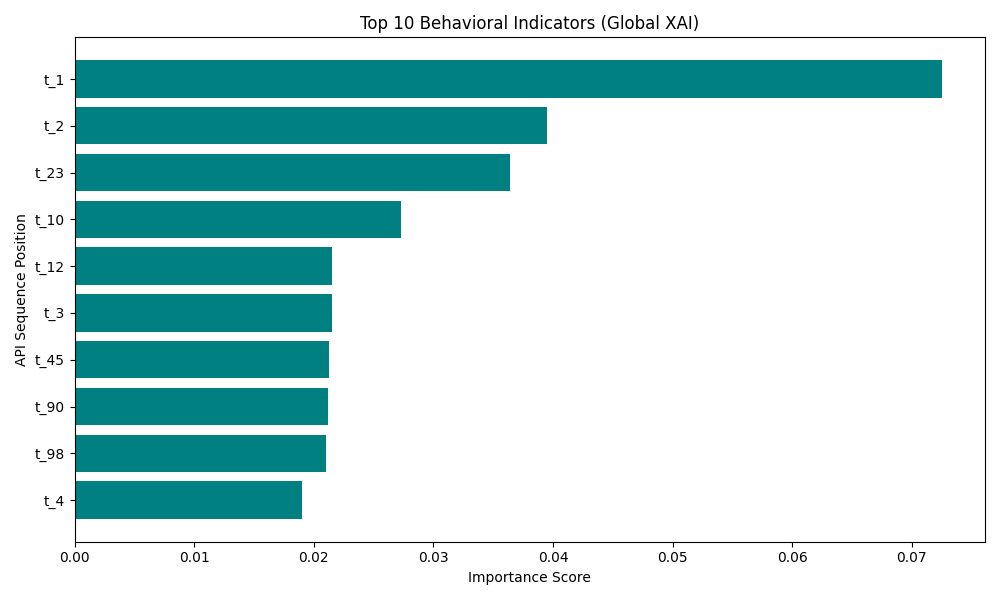
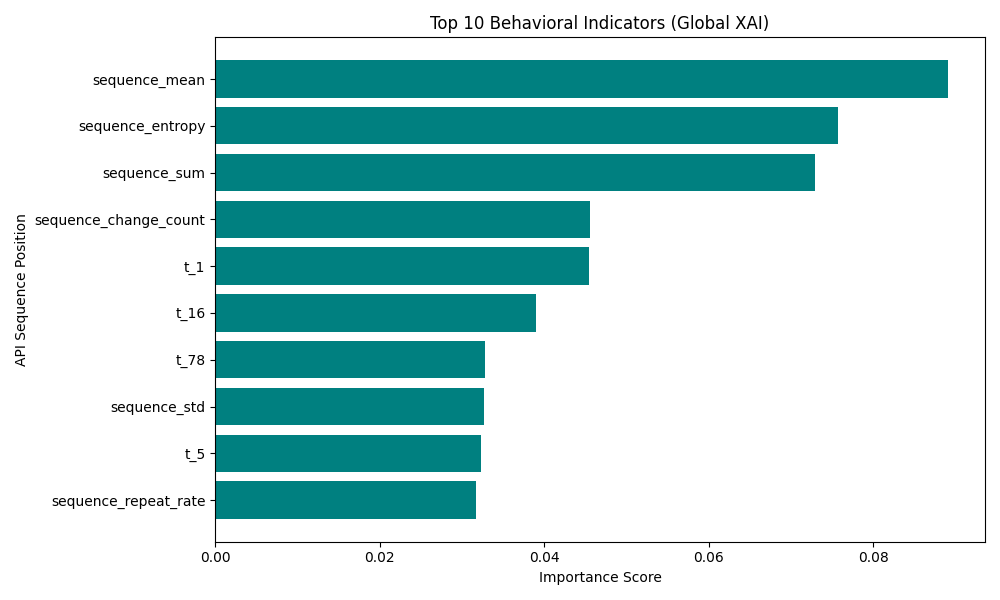
Improved SVM low accuracy

diff --git a/json_parser.py b/json_parser.py
@@ -1,0 +1,63 @@
+import json
+import pandas as pd
+
+RAW_API_LIST = [
+    'NtOpenThread', 'ExitWindowsEx', 'FindResourceW', 'CryptExportKey', 'CreateRemoteThreadEx', 'MessageBoxTimeoutW', 'InternetCrackUrlW', 'StartServiceW', 'GetFileSize', 'GetVolumeNameForVolumeMountPointW', 'GetFileInformationByHandle', 'CryptAcquireContextW', 'RtlDecompressBuffer', 'SetWindowsHookExA', 'RegSetValueExW', 'LookupAccountSidW', 'SetUnhandledExceptionFilter', 'InternetConnectA', 'GetComputerNameW', 'RegEnumValueA', 'NtOpenFile', 'NtSaveKeyEx', 'HttpOpenRequestA', 'recv', 'GetFileSizeEx', 'LoadStringW', 'SetInformationJobObject', 'WSAConnect', 'CryptDecrypt', 'GetTimeZoneInformation', 'InternetOpenW', 'CoInitializeEx', 'CryptGenKey', 'GetAsyncKeyState', 'NtQueryInformationFile', 'GetSystemMetrics', 'NtDeleteValueKey', 'NtOpenKeyEx', 'sendto', 'IsDebuggerPresent', 'RegQueryInfoKeyW', 'NetShareEnum', 'InternetOpenUrlW', 'WSASocketA', 'CopyFileExW', 'connect', 'ShellExecuteExW', 'SearchPathW', 'GetUserNameA', 'InternetOpenUrlA', 'LdrUnloadDll', 'EnumServicesStatusW', 'EnumServicesStatusA', 'WSASend', 'CopyFileW', 'NtDeleteFile', 'CreateActCtxW', 'timeGetTime', 'MessageBoxTimeoutA', 'CreateServiceA', 'FindResourceExW', 'WSAAccept', 'InternetConnectW', 'HttpSendRequestA', 'GetVolumePathNameW', 'RegCloseKey', 'InternetGetConnectedStateExW', 'GetAdaptersInfo', 'shutdown', 'NtQueryMultipleValueKey', 'NtQueryKey', 'GetSystemWindowsDirectoryW', 'GlobalMemoryStatusEx', 'GetFileAttributesExW', 'OpenServiceW', 'getsockname', 'LoadStringA', 'UnhookWindowsHookEx', 'NtCreateUserProcess', 'Process32NextW', 'CreateThread', 'LoadResource', 'GetSystemTimeAsFileTime', 'SetStdHandle', 'CoCreateInstanceEx', 'GetSystemDirectoryA', 'NtCreateMutant', 'RegCreateKeyExW', 'IWbemServices_ExecQuery', 'NtDuplicateObject', 'Thread32First', 'OpenSCManagerW', 'CreateServiceW', 'GetFileType', 'MoveFileWithProgressW', 'NtDeviceIoControlFile', 'GetFileInformationByHandleEx', 'CopyFileA', 'NtLoadKey', 'GetNativeSystemInfo', 'NtOpenProcess', 'CryptUnprotectMemory', 'InternetWriteFile', 'ReadProcessMemory', 'gethostbyname', 'WSASendTo', 'NtOpenSection', 'listen', 'WSAStartup', 'socket', 'OleInitialize', 'FindResourceA', 'RegOpenKeyExA', 'RegEnumKeyExA', 'NtQueryDirectoryFile', 'CertOpenSystemStoreW', 'ControlService', 'LdrGetProcedureAddress', 'GlobalMemoryStatus', 'NtSetInformationFile', 'OutputDebugStringA', 'GetAdaptersAddresses', 'CoInitializeSecurity', 'RegQueryValueExA', 'NtQueryFullAttributesFile', 'DeviceIoControl', '__anomaly__', 'DeleteFileW', 'GetShortPathNameW', 'NtGetContextThread', 'GetKeyboardState', 'RemoveDirectoryA', 'InternetSetStatusCallback', 'NtResumeThread', 'SetFileInformationByHandle', 'NtCreateSection', 'NtQueueApcThread', 'accept', 'DecryptMessage', 'GetUserNameExW', 'SizeofResource', 'RegQueryValueExW', 'SetWindowsHookExW', 'HttpOpenRequestW', 'CreateDirectoryW', 'InternetOpenA', 'GetFileVersionInfoExW', 'FindWindowA', 'closesocket', 'RtlAddVectoredExceptionHandler', 'IWbemServices_ExecMethod', 'GetDiskFreeSpaceExW', 'TaskDialog', 'WriteConsoleW', 'CryptEncrypt', 'WSARecvFrom', 'NtOpenMutant', 'CoGetClassObject', 'NtQueryValueKey', 'NtDelayExecution', 'select', 'HttpQueryInfoA', 'GetVolumePathNamesForVolumeNameW', 'RegDeleteValueW', 'InternetCrackUrlA', 'OpenServiceA', 'InternetSetOptionA', 'CreateDirectoryExW', 'bind', 'NtShutdownSystem', 'DeleteUrlCacheEntryA', 'NtMapViewOfSection', 'LdrGetDllHandle', 'NtCreateKey', 'GetKeyState', 'CreateRemoteThread', 'NtEnumerateValueKey', 'SetFileAttributesW', 'NtUnmapViewOfSection', 'RegDeleteValueA', 'CreateJobObjectW', 'send', 'NtDeleteKey', 'SetEndOfFile', 'GetUserNameExA', 'GetComputerNameA', 'URLDownloadToFileW', 'NtFreeVirtualMemory', 'recvfrom', 'NtUnloadDriver', 'NtTerminateThread', 'CryptUnprotectData', 'NtCreateThreadEx', 'DeleteService', 'GetFileAttributesW', 'GetFileVersionInfoSizeExW', 'OpenSCManagerA', 'WriteProcessMemory', 'GetSystemInfo', 'SetFilePointer', 'Module32FirstW', 'ioctlsocket', 'RegEnumKeyW', 'RtlCompressBuffer', 'SendNotifyMessageW', 'GetAddrInfoW', 'CryptProtectData', 'Thread32Next', 'NtAllocateVirtualMemory', 'RegEnumKeyExW', 'RegSetValueExA', 'DrawTextExA', 'CreateToolhelp32Snapshot', 'FindWindowW', 'CoUninitialize', 'NtClose', 'WSARecv', 'CertOpenStore', 'InternetGetConnectedState', 'RtlAddVectoredContinueHandler', 'RegDeleteKeyW', 'SHGetSpecialFolderLocation', 'CreateProcessInternalW', 'NtCreateDirectoryObject', 'EnumWindows', 'DrawTextExW', 'RegEnumValueW', 'SendNotifyMessageA', 'NtProtectVirtualMemory', 'NetUserGetLocalGroups', 'GetUserNameW', 'WSASocketW', 'getaddrinfo', 'AssignProcessToJobObject', 'SetFileTime', 'WriteConsoleA', 'CryptDecodeObjectEx', 'EncryptMessage', 'system', 'NtSetContextThread', 'LdrLoadDll', 'InternetGetConnectedStateExA', 'RtlCreateUserThread', 'GetCursorPos', 'Module32NextW', 'RegCreateKeyExA', 'NtLoadDriver', 'NetUserGetInfo', 'SHGetFolderPathW', 'GetBestInterfaceEx', 'CertControlStore', 'StartServiceA', 'NtWriteFile', 'Process32FirstW', 'NtReadVirtualMemory', 'GetDiskFreeSpaceW', 'GetFileVersionInfoW', 'FindFirstFileExW', 'FindWindowExW', 'GetSystemWindowsDirectoryA', 'RegOpenKeyExW', 'CoCreateInstance', 'NtQuerySystemInformation', 'LookupPrivilegeValueW', 'NtReadFile', 'ReadCabinetState', 'GetForegroundWindow', 'InternetCloseHandle', 'FindWindowExA', 'ObtainUserAgentString', 'CryptCreateHash', 'GetTempPathW', 'CryptProtectMemory', 'NetGetJoinInformation', 'NtOpenKey', 'GetSystemDirectoryW', 'DnsQuery_A', 'RegQueryInfoKeyA', 'NtEnumerateKey', 'RegisterHotKey', 'RemoveDirectoryW', 'FindFirstFileExA', 'CertOpenSystemStoreA', 'NtTerminateProcess', 'NtSetValueKey', 'CryptAcquireContextA', 'SetErrorMode', 'UuidCreate', 'RtlRemoveVectoredExceptionHandler', 'RegDeleteKeyA', 'setsockopt', 'FindResourceExA', 'NtSuspendThread', 'GetFileVersionInfoSizeW', 'NtOpenDirectoryObject', 'InternetQueryOptionA', 'InternetReadFile', 'NtCreateFile', 'NtQueryAttributesFile', 'HttpSendRequestW', 'CryptHashMessage', 'CryptHashData', 'NtWriteVirtualMemory', 'SetFilePointerEx', 'CertCreateCertificateContext', 'DeleteUrlCacheEntryW', '__exception__'
+]
+
+# Create case-insensitive dictionary
+API_MAPPING_DICT = {api.lower(): idx for idx, api in enumerate(sorted(RAW_API_LIST))}
+
+def extract_apis_recursive(data):
+    """Aggressively hunts for API strings inside unknown nested JSON layouts."""
+    found_apis = []
+    
+    if isinstance(data, dict):
+        if "api_name" in data and isinstance(data["api_name"], str):
+            found_apis.append(data["api_name"])
+        elif "name" in data and isinstance(data["name"], str):
+            found_apis.append(data["name"])
+        elif "api" in data and isinstance(data["api"], str):
+            found_apis.append(data["api"])
+            
+        for key, value in data.items():
+            if isinstance(value, (dict, list)):
+                found_apis.extend(extract_apis_recursive(value))
+                
+    elif isinstance(data, list):
+        for item in data:
+            if isinstance(item, (dict, list)):
+                found_apis.extend(extract_apis_recursive(item))
+                
+    return found_apis
+
+def flatten_speakeasy_json(file_path, expected_length=100):
+    with open(file_path, 'r') as f:
+        raw_data = json.load(f)
+
+    # 1. Hunt down all raw API strings using recursion
+    extracted_strings = extract_apis_recursive(raw_data)
+    
+    api_sequence = []
+    for api_name_full in extracted_strings:
+        # Strip prefixes (e.g. KERNEL32.)
+        clean_api = api_name_full.split('.')[-1].lower()
+        
+        # 2. Match exactly, or try appending 'a' (ANSI) or 'w' (Wide)
+        encoded_api = -1
+        if clean_api in API_MAPPING_DICT:
+            encoded_api = API_MAPPING_DICT[clean_api]
+        elif clean_api + 'a' in API_MAPPING_DICT:
+            encoded_api = API_MAPPING_DICT[clean_api + 'a']
+        elif clean_api + 'w' in API_MAPPING_DICT:
+            encoded_api = API_MAPPING_DICT[clean_api + 'w']
+
+        # 3. Only append valid known APIs. Skip unknowns so they don't break the sequence.
+        if encoded_api != -1:
+            api_sequence.append(encoded_api)
+
+    # 4. Enforce strict 100-feature length via truncation or padding with 0
+    api_sequence = api_sequence[:expected_length] + [0] * max(0, expected_length - len(api_sequence))
+
+    columns = [f't_{i}' for i in range(expected_length)]
+    return pd.DataFrame([api_sequence], columns=columns)

diff --git a/build_dataset.py b/build_dataset.py
@@ -1,0 +1,117 @@
+import os
+import sys
+import pandas as pd
+from json_parser import flatten_speakeasy_json
+
+# ── Configuration ──────────────────────────────────────────────────────────────
+
+TARGET_DIRECTORY = r"D:\Random_Downloads\Projects\FYP\archive\windows_emulation_trainset"
+OUTPUT_FILE      = "speakeasy_training_data.csv"
+
+# Folders inside TARGET_DIRECTORY that contain benign (clean) samples.
+# Everything else is treated as malware.
+BENIGN_FOLDERS = {'report_clean', 'report_windows_syswow64'}
+
+# Minimum number of non-zero API calls a sample must have to be kept.
+# Samples below this threshold are almost entirely padding and carry no signal.
+MIN_API_CALLS = 5
+
+# ── Core builder ───────────────────────────────────────────────────────────────
+
+def compile_dataset(root_dir, output_csv, min_api_calls=MIN_API_CALLS):
+    print(f"Scanning: {root_dir}")
+    print(f"Benign folders : {BENIGN_FOLDERS}")
+    print(f"Min API calls  : {min_api_calls}")
+    print("-" * 60)
+
+    all_rows       = []
+    skipped_sparse = 0
+    skipped_error  = 0
+
+    # Collect all JSON paths first so we can show a total count
+    all_files = [
+        (root_path, fname)
+        for root_path, _, files in os.walk(root_dir)
+        for fname in files
+        if fname.endswith('.json')
+    ]
+    total = len(all_files)
+    print(f"Found {total:,} JSON files\n")
+
+    for idx, (root_path, fname) in enumerate(all_files, 1):
+        file_path   = os.path.join(root_path, fname)
+        folder_name = os.path.basename(root_path)
+
+        if idx % 500 == 0 or idx == total:
+            print(f"  Progress: {idx}/{total} | Kept: {len(all_rows)} | "
+                  f"Sparse: {skipped_sparse} | Errors: {skipped_error}",
+                  end='\r')
+
+        try:
+            df_single = flatten_speakeasy_json(file_path)
+
+            # ── Sparse filter ──────────────────────────────────────────────────
+            seq_cols = [c for c in df_single.columns if c.startswith('t_')]
+            nonzero  = int((df_single[seq_cols] != 0).sum(axis=1).iloc[0])
+            if nonzero < min_api_calls:
+                skipped_sparse += 1
+                continue
+
+            # ── Hash ───────────────────────────────────────────────────────────
+            file_hash = fname.replace('.json', '')
+            df_single.insert(0, 'hash', file_hash)
+
+            # ── Label by folder name ───────────────────────────────────────────
+            df_single['malware'] = 0 if folder_name in BENIGN_FOLDERS else 1
+
+            all_rows.append(df_single)
+
+        except Exception as exc:
+            skipped_error += 1
+            # Uncomment to debug parse failures:
+            # print(f"\n  SKIP {file_path}: {exc}")
+
+    print()  # flush the \r progress line
+
+    # ── Assemble ───────────────────────────────────────────────────────────────
+    if not all_rows:
+        print("\nNo valid samples collected. Check your TARGET_DIRECTORY path.")
+        sys.exit(1)
+
+    print(f"\nCombining {len(all_rows):,} samples...")
+    final = pd.concat(all_rows, ignore_index=True)
+    final.fillna(0, inplace=True)
+
+    n_benign  = int((final['malware'] == 0).sum())
+    n_malware = int((final['malware'] == 1).sum())
+
+    # ── Report ─────────────────────────────────────────────────────────────────
+    print("\n" + "=" * 60)
+    print("DATASET REPORT")
+    print("=" * 60)
+    print(f"  Total kept      : {len(final):,}")
+    print(f"  Benign  (0)     : {n_benign:,}")
+    print(f"  Malware (1)     : {n_malware:,}")
+    print(f"  Skipped sparse  : {skipped_sparse:,}")
+    print(f"  Skipped errors  : {skipped_error:,}")
+
+    if n_benign == 0:
+        print("\n  WARNING: Still zero benign samples!")
+        print("  Check that your archive actually contains 'report_clean'")
+        print("  or 'report_windows_syswow64' subfolders with JSON files.")
+    else:
+        ratio = n_malware / n_benign
+        print(f"  Imbalance ratio : {ratio:.0f}:1 (malware:benign)")
+        if ratio > 20:
+            print("  WARNING: High imbalance — SMOTE in main.py will compensate,")
+            print("  but consider collecting more benign samples if accuracy is poor.")
+
+    print("=" * 60)
+    final.to_csv(output_csv, index=False)
+    print(f"\nSaved -> {output_csv}")
+
+
+# ── Entry point ────────────────────────────────────────────────────────────────
+
+if __name__ == "__main__":
+    compile_dataset(TARGET_DIRECTORY, OUTPUT_FILE)

diff --git a/merge_dataset.py b/merge_dataset.py
@@ -1,0 +1,50 @@
+import pandas as pd
+import numpy as np
+
+ORIGINAL_CSV  = 'dynamic_api_call_sequence_per_malware_100_0_306.csv'
+SPEAKEASY_CSV = 'speakeasy_training_data.csv'
+OUTPUT_CSV    = 'merged_training_data.csv'
+
+def merge_datasets(original_csv, speakeasy_csv, output_csv):
+    print("Loading datasets...")
+    df_orig = pd.read_csv(original_csv)
+    df_spk  = pd.read_csv(speakeasy_csv)
+
+    print(f"  Original  -> {len(df_orig):,} rows | Benign: {(df_orig['malware']==0).sum():,} | Malware: {(df_orig['malware']==1).sum():,}")
+    print(f"  Speakeasy -> {len(df_spk):,} rows  | Benign: {(df_spk['malware']==0).sum():,} | Malware: {(df_spk['malware']==1).sum():,}")
+
+    # Remove any hashes that appear in both (keep original's version)
+    overlap = set(df_orig['hash'].astype(str)) & set(df_spk['hash'].astype(str))
+    if overlap:
+        print(f"\n  Removing {len(overlap)} duplicate hashes from speakeasy set.")
+        df_spk = df_spk[~df_spk['hash'].astype(str).isin(overlap)]
+
+    # Align columns — both have the same t_0..t_99 + hash + malware structure
+    merged = pd.concat([df_orig, df_spk], ignore_index=True)
+    merged.fillna(0, inplace=True)
+
+    n_benign  = int((merged['malware'] == 0).sum())
+    n_malware = int((merged['malware'] == 1).sum())
+    ratio     = n_malware / n_benign
+
+    print("\n" + "=" * 60)
+    print("MERGED DATASET REPORT")
+    print("=" * 60)
+    print(f"  Total samples   : {len(merged):,}")
+    print(f"  Benign  (0)     : {n_benign:,}")
+    print(f"  Malware (1)     : {n_malware:,}")
+    print(f"  Imbalance ratio : {ratio:.1f}:1 (malware:benign)")
+
+    # Sequence density comparison
+    seq_cols = [c for c in merged.columns if c.startswith('t_')]
+    nz = (merged[seq_cols] != 0).sum(axis=1)
+    print(f"  Avg non-zero API calls/sample: {nz.mean():.1f}")
+    print(f"  Median non-zero API calls    : {nz.median():.0f}")
+    print("=" * 60)
+
+    merged.to_csv(output_csv, index=False)
+    print(f"\nSaved -> {output_csv}")
+    print("\nNext step: set DATASET_FILE = 'merged_training_data.csv' in main.py and run it.")
+
+if __name__ == "__main__":
+    merge_datasets(ORIGINAL_CSV, SPEAKEASY_CSV, OUTPUT_CSV)

diff --git a/main.py b/main.py
@@ -5,7 +5,8 @@ import matplotlib.pyplot as plt
 import numpy as np
 import pandas as pd
 from sklearn.ensemble import RandomForestClassifier
-from sklearn.svm import SVC
+from sklearn.svm import LinearSVC
+from sklearn.calibration import CalibratedClassifierCV
 from sklearn.preprocessing import StandardScaler
 from sklearn.metrics import classification_report
 from sklearn.model_selection import StratifiedKFold, cross_val_score, train_test_split
@@ -15,7 +16,7 @@ from imblearn.over_sampling import SMOTE
 # --- Configuration ---
 MODEL_FILE = 'behavioral_rf_model.pkl'
 # This is your original training dataset
-DATASET_FILE = 'dynamic_api_call_sequence_per_malware_100_0_306.csv' 
+DATASET_FILE = 'merged_training_data.csv'  
 
 
 def describe_api_call(api_name):
@@ -151,12 +152,8 @@ def train_detection_model(data_path):
         class_weight='balanced_subsample',
     )
     
-    svm_model = SVC(
-        kernel='linear',
-        max_iter=5000,
-        probability=True,
-        random_state=42,
-        class_weight='balanced'
+    svm_model = CalibratedClassifierCV(
+        LinearSVC(max_iter=10000, class_weight='balanced', random_state=42)
     )
 
     # Build an imbalanced-learn pipeline that applies SMOTE only during training
@@ -232,9 +229,14 @@ def run_detection_pipeline(file_path):
     """
     DETECTION PHASE: Used by gui.py to analyze files with Human-Readable Local XAI.
     """
-    df = pd.read_csv(file_path)
-    if len(df) > 1:
-        print(f"Warning: {len(df)} rows detected, analyzing first sample only.")
+    from json_parser import flatten_speakeasy_json
+    
+    if file_path.lower().endswith('.json'):
+        df = flatten_speakeasy_json(file_path)
+    else:
+        df = pd.read_csv(file_path)
+        if len(df) > 1:
+            print(f"Warning: {len(df)} rows detected, analyzing first sample only.")
 
     # Ensure we don't try to drop columns that aren't there.
     X_new = df.drop(['hash', 'malware'], axis=1, errors='ignore')

diff --git a/gui.py b/gui.py
@@ -68,7 +68,7 @@ class DetectionGUI:
         self.file_label.pack(pady=20)
 
         # Standard Features
-        tk.Button(root, text="Select Dataset (CSV)", command=self.select_file, width=25).pack(pady=5)
+        tk.Button(root, text="Select Dataset", command=self.select_file, width=25).pack(pady=5)
         tk.Button(root, text="Run Analysis", command=self.execute, width=25, bg="teal", fg="white").pack(pady=5)
 
         # ADMIN ONLY: Audit Log Feature (Requirement F7)
@@ -79,7 +79,7 @@ class DetectionGUI:
         tk.Button(root, text="Logout & Exit", command=root.quit, width=25).pack(pady=20)
 
     def select_file(self):
-        self.selected_file = filedialog.askopenfilename(filetypes=[("CSV Files", "*.csv")])
+        self.selected_file = filedialog.askopenfilename(filetypes=[("Supported Datasets", "*.csv *.json")])
         if self.selected_file:
             self.file_label.config(text=f"Selected: {os.path.basename(self.selected_file)}", fg="black")
 
